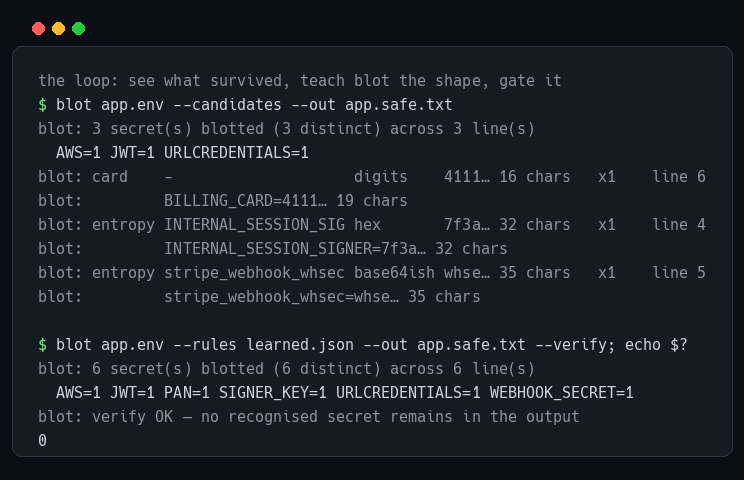
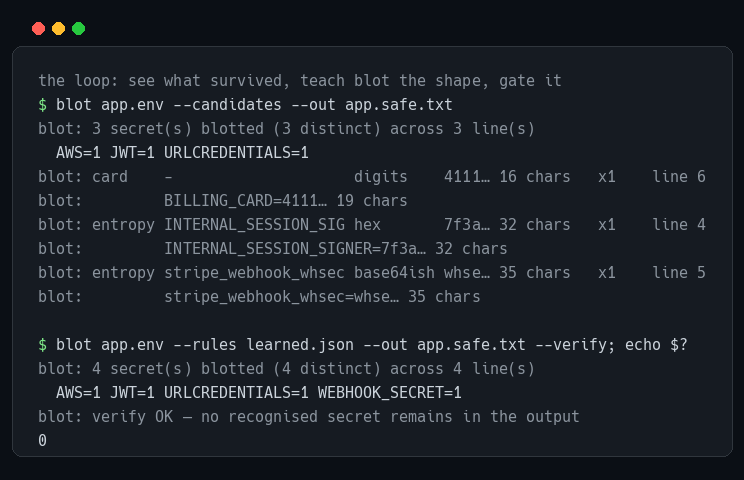
1.2.0 — two gates, and a limits section that says what actually stopped being true
README: the --verify / --strict distinction with the exit-code table, the
candidate classes and the streamed memory number, and the limits rewritten so
the fixed ones are named as fixed rather than quietly deleted. The remaining
ones are stated as what they are: an unnamed, unstructured, low-entropy secret
is invisible, over-redaction is a competing failure, and --map is the only
copy.

SKILL.md: step 4 gates on --strict, so an agent finds out its rule set is
incomplete before the log goes out rather than after.

candidates.png regenerated — URL credentials are counted now, so the totals in
the old image were the ones from before that fix.

Changed region(s): [[0.2164, 0.75, 0.8656, 0.8438], [0.1237, 0.75, 0.1546, 0.7812]]

diff --git a/blot.py b/blot.py
@@ -19,7 +19,11 @@ whole loop be driven by an agent that is never shown a secret. `--dump-rules FIL
 built-in set instead of from nothing.
 
   blot app.log --json --candidates --out app.safe.txt   # an agent reads the report, not the log
-  blot app.log --rules learned.json --verify            # ...and blot applies what it decided
+  blot app.log --rules learned.json --strict            # ...and blot applies what it decided
+
+Exit codes: 0 clean · 2 usage or I/O failure, nothing written · 3 a recognised secret is still live ·
+4 refused by --strict, because nothing recognised survived but an unnamed shape did. Lines are
+streamed, so memory tracks how many secrets a run found rather than how large the input was.
 """
 import argparse
 import hashlib
@@ -33,7 +37,7 @@ import sys
 import time
 
 PROG = os.path.basename(sys.argv[0]).split(".")[0]
-VERSION = "1.1.1"
+VERSION = "1.2.0"
 
 # Named groups: `keep` is the context that stays visible (so a reader can still tell WHICH field was
 # blotted), `sec` is the secret, `q`/`tail` preserve quoting. Order matters: specific prefixed forms

diff --git a/README.md b/README.md
@@ -31,6 +31,7 @@ One file, stdlib only, no network, no config, no telemetry. It has never heard o
 cargo build --verbose 2>&1 | blot > safe-log.txt        # the common case
 blot draft.md --out draft.published.md --map draft.map.json
 cat transcript.txt | blot --verify > /dev/null          # exits 3 rather than claiming a clean
+blot app.env --rules learned.json --strict              # exits 4 until every shape has a rule
 blot --pii --paranoid build.log                         # emails/IPs, plus high-entropy strays
 ```
 
@@ -60,32 +61,47 @@ the playbook for driving it from an agent — symlink it into `~/.qoder/skills` 
 
 ![the loop](docs/img/candidates.png)
 
-## It checks its own work
+## Two gates, not one
 
 `--verify` re-scans the text blot produced and refuses to call it clean if anything recognisable is
 still live. It deliberately ignores `--keep`: auditing a redaction against the same exceptions that
 produced it is how a leak gets certified clean.
 
+`--strict` adds the second gate — the candidate sweep has to come back empty too. That is the
+difference between *nothing recognised survived* and *nothing recognisable survived*, and it is the
+difference an agent can act on: 4 names the shapes, `--rules` teaches them, 0 means both gates passed.
+
+| exit | meaning |
+|---|---|
+| 0 | clean — both gates passed |
+| 2 | usage or I/O failure; nothing was written |
+| 3 | a recognised secret is still live, with line numbers |
+| 4 | nothing recognised survived, but an unnamed shape did |
+
 ![verify refusing](docs/img/verify.png)
 
 ## Limits, honestly
 
-- **Detection is by shape and by name.** A secret in a format blot does not know passes through —
-  that is what `--candidates` is for. `--verify` uses the same eyes, so it proves *nothing recognised
-  survived*, not *nothing survived*.
-- **Over-redaction is also a failure.** That is why the key-name list is curated rather than
-  `.*key.*=`, and why a git sha next to the word `commit` is left alone. `--paranoid` trades
-  precision for reach when you would rather lose the line than lose the token.
-- **A rule you supply is a regex you run.** blot compiles `--rules` as written and does not defend
-  against a pathological one; it refuses a rule that could not work.
-- **`--map` is the only copy** of the label-to-secret table, created 0600 and never overwritten.
-  Publish that file and you have published everything.
+No longer limits: an unknown shape can be found (`--candidates`), refused (`--strict`) and learned
+(`--rules`); a pathological rule is probed against short adversarial inputs and rejected before it can
+hang the run; the reverse map refuses to land inside a git work tree; and a 111 MB log costs 27 MB of
+memory, because lines are streamed through rather than collected and joined.
+
+What is still true:
+
+- **A secret that is unnamed, unstructured and low-entropy is invisible.** `--candidates` is what
+  catches the next `footprint=`; nothing catches a value that looks exactly like the text around it.
+- **Over-redaction is a failure too,** and the answer is a trade rather than a solution: the key-name
+  list is curated rather than `.*key.*=`, a git sha beside `commit` stays put, and `--paranoid` buys
+  reach with precision when you would rather lose the line than lose the token.
+- **`--map` is the only copy** of the label-to-secret table — 0600, never silently overwritten.
+  Publish it and you have published everything.
 - Not a DLP, not a compliance scanner, not a substitute for rotating what you leaked.
 
 ## Develop
 
 ```sh
-python3 tests/test_blot.py    # 48 tests, stdlib only, no install step
+python3 tests/test_blot.py    # 65 tests, stdlib only, no install step
 ```
 
 MIT. If blot cost you a credential, the failure was the credential being there — but do open an

diff --git a/skill/blot/SKILL.md b/skill/blot/SKILL.md
@@ -45,14 +45,17 @@ raw value, that is the signal to write a broader rule, not to look.
    line — a screen that is wrong silently un-does the rule, so if you are unsure, omit it.
    `blot --dump-rules built.json` gives you the built-in set to copy a shape from.
    `blot in.log --rules rules.json --candidates --json --out in.safe.txt`
-4. **Gate.** `blot in.log --rules rules.json --out in.safe.txt --verify` must exit **0**. Exit **3**
-   means something recognisable is still live, and it names the lines. `--verify` ignores `--keep` on
-   purpose: never let the exceptions that produced a redaction certify it.
+4. **Gate.** `blot in.log --rules rules.json --out in.safe.txt --strict` must exit **0**. `--strict`
+   runs `--verify` and then refuses with **4** if any unnamed shape is still standing — which is how
+   you learn your rule set is incomplete without publishing the log to find out. Exit **3** means a
+   recognised secret survived, and it names the lines. `--verify` ignores `--keep` on purpose: never
+   let the exceptions that produced a redaction certify it.
 
 ## Exit codes
 
-`0` clean · `2` usage or I/O failure (nothing was written) · `3` **not clean**, output still holds a
-recognisable secret.
+`0` clean · `2` usage or I/O failure (nothing was written) · `3` **not clean**, a recognised secret is
+still live · `4` **unnamed** — nothing recognised survived, but a candidate shape did, so go back to
+step 3.
 
 ## Flags worth reaching for
 
